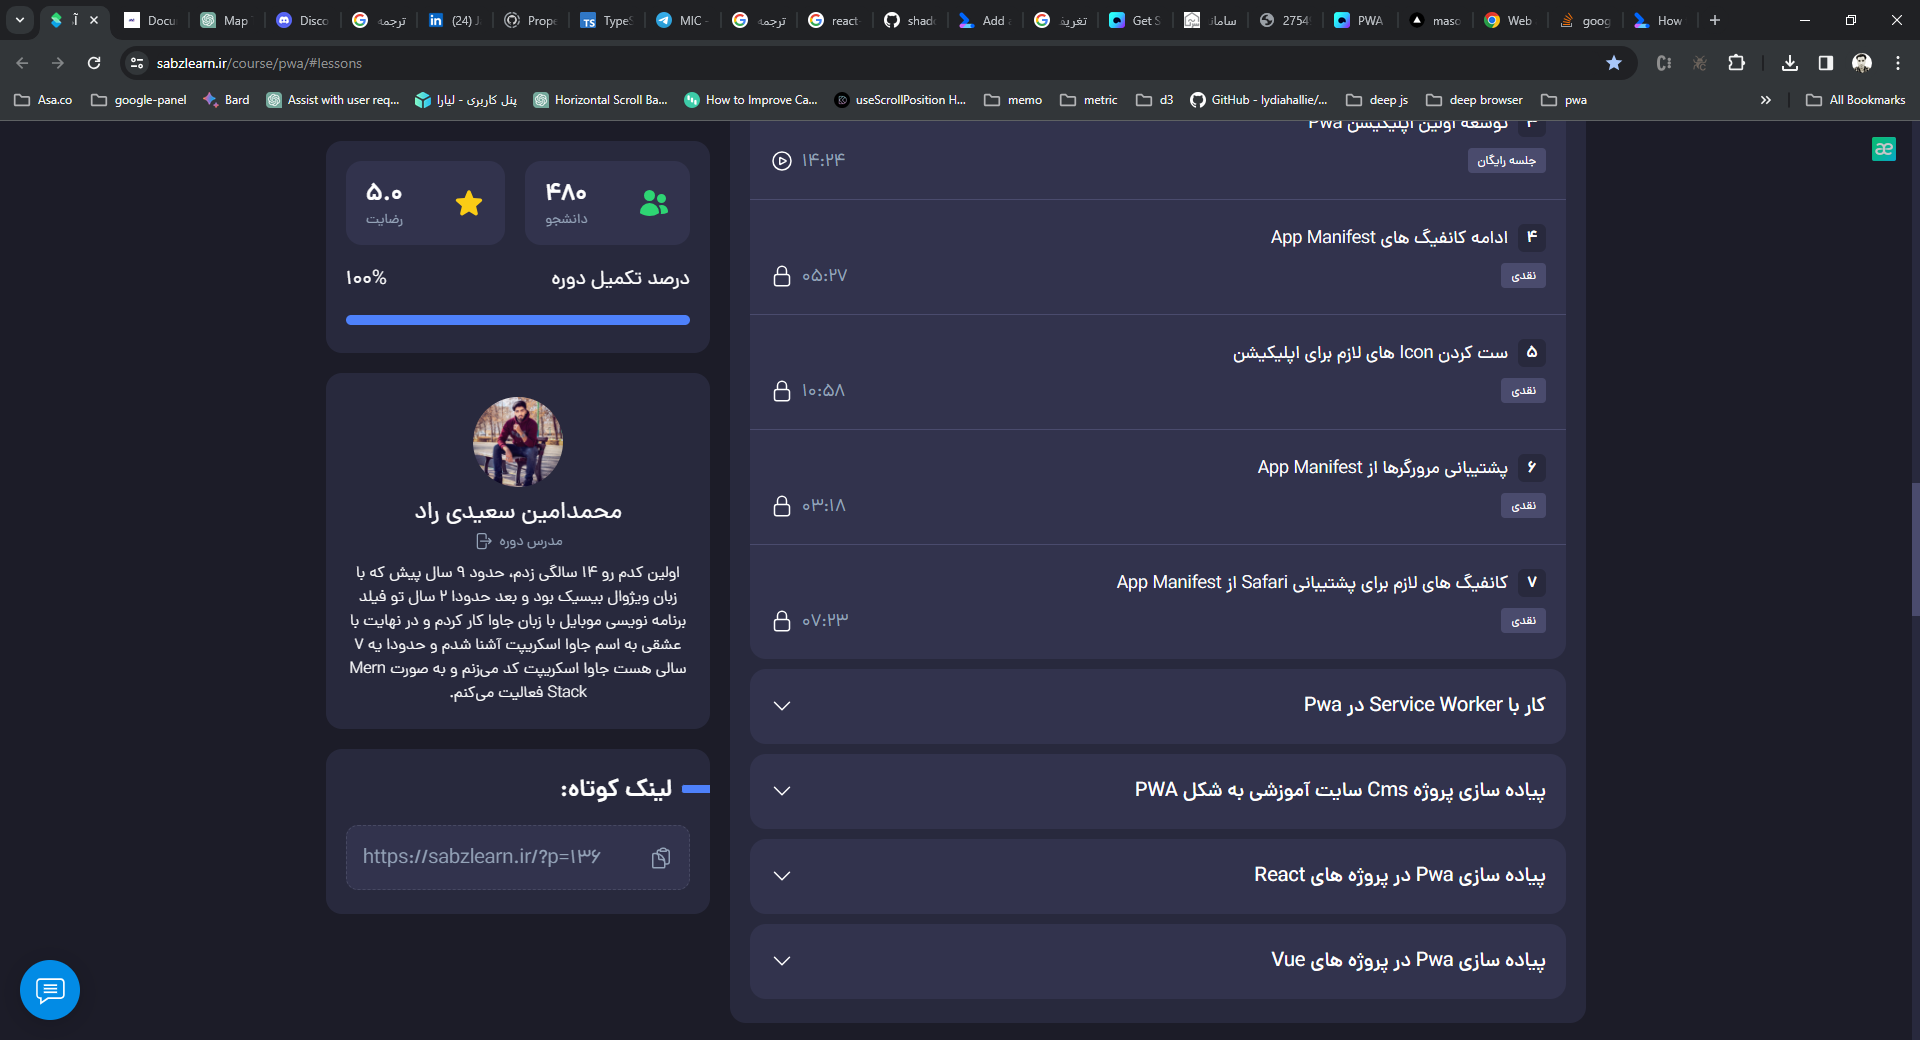
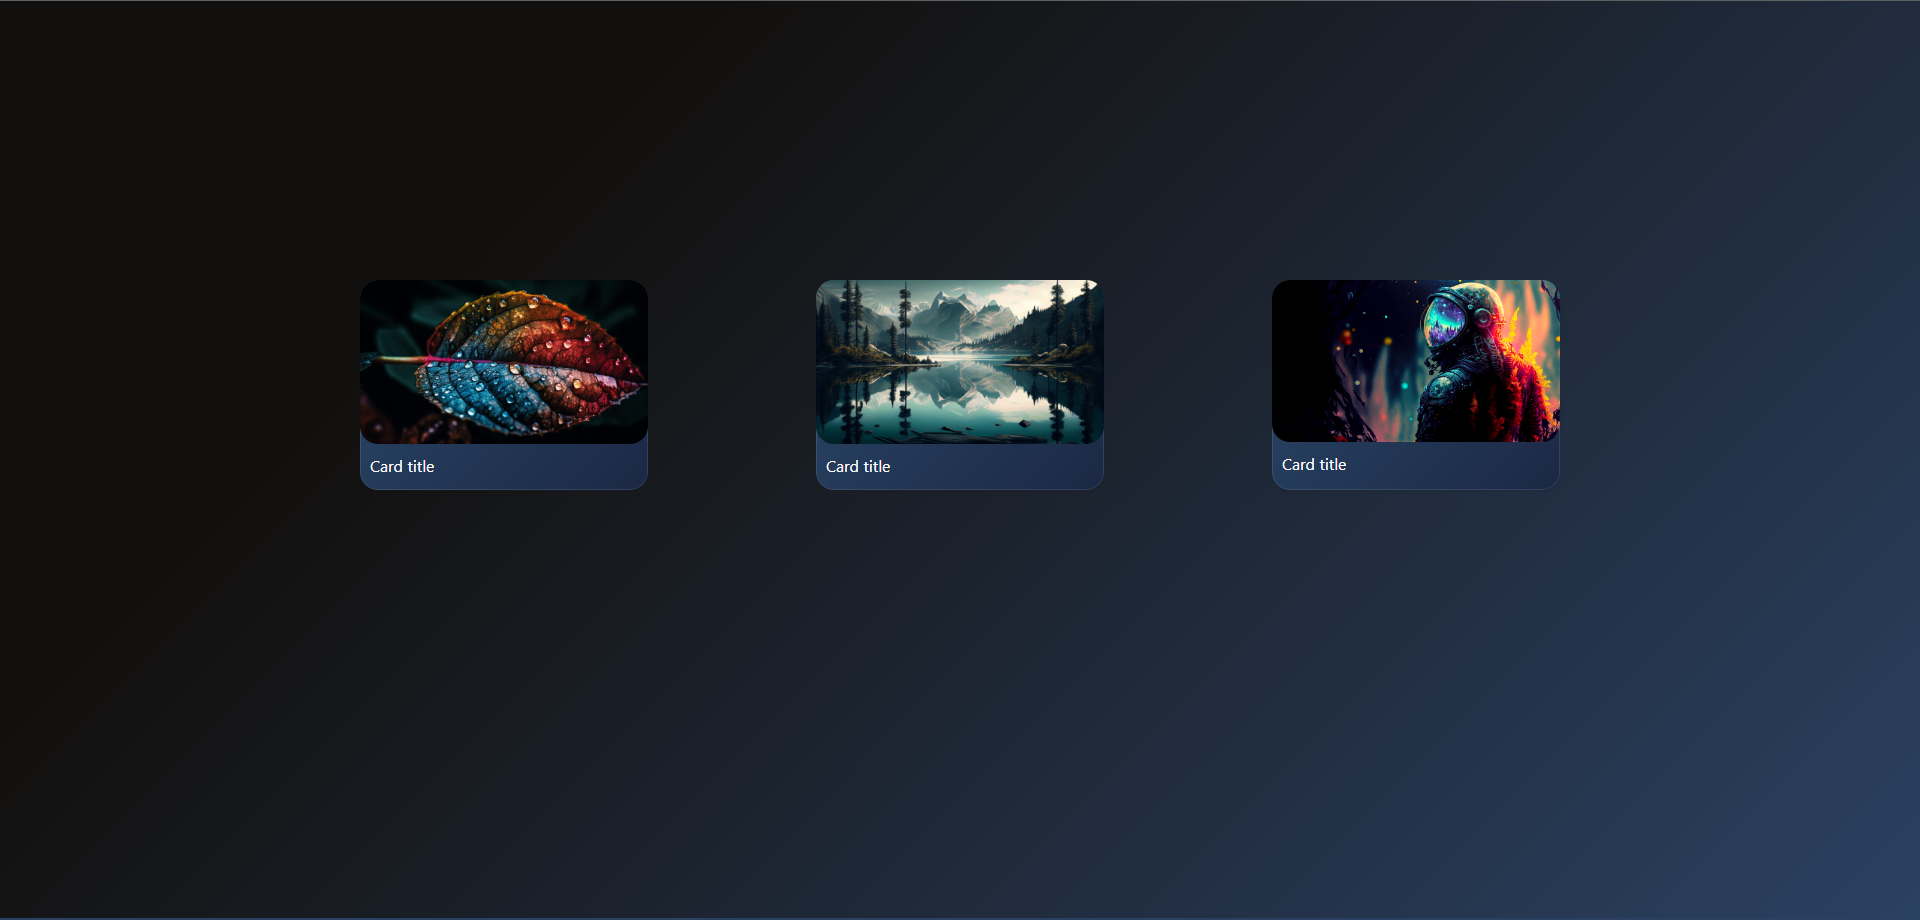
added useful strategy

diff --git a/sw.js b/sw.js
@@ -1,10 +1,10 @@
-const version = 17;
+const version = 73;
 const cacheName = {
   static: `static?version=${version}`,
   dynamic: `dynamic?version=${version}`,
 };
 
-const staticAsset = ["/"];
+const staticAsset = ["/","/assets/styles/main.css"];
 
 self.addEventListener("install", (event) => {
   console.log("installed service worker");
@@ -14,7 +14,7 @@ self.addEventListener("install", (event) => {
       cache
         .addAll(staticAsset)
         .then((e) => {
-          console.log("added to cache");
+          console.log("added static file to cache");
         })
         .catch((err) => console.log(err));
     })
@@ -22,6 +22,9 @@ self.addEventListener("install", (event) => {
 });
 
 self.addEventListener("activate", (event) => {
+  console.log("activate service worker");
+  event.waitUntil(clients.claim());
+
   const activateCacheName = Object.values(cacheName);
   event.waitUntil(
     caches.keys().then((cacheNames) => {
@@ -38,30 +41,78 @@ self.addEventListener("activate", (event) => {
 
 self.addEventListener("fetch", (event) => {
   console.log(event.request);
-  event.respondWith(
-    caches.match(event.request).then((response) => {
-      if (response) {
-        return response;
-      } else {
-        // Check if the request scheme is supported
-        if (event.request.url.startsWith("http")) {
-          return fetch(event.request).then((serverResponse) => {
-            // Open the dynamic cache
-            return caches.open(cacheName.dynamic).then((cache) => {
-              // Put the response in the cache
-              cache.put(event.request, serverResponse.clone());
-              return serverResponse;
-            });
-          }).catch(error => {
-            // Handle fetch errors
-            console.error('Fetch error:', error);
-            throw error;
-          });
-        } else {
-          // If request scheme is not supported, directly return the fetch response
-          return fetch(event.request);
-        }
-      }
-    })
-  );
+
+  // // network only
+  // event.respondWith(event.request);
+
+  // ****************************************************************************************************************************
+
+  // // caches only
+  const url = new URL(event.request.url);
+  const isPreCachedRequest = staticAsset.includes(url.pathname);
+  console.log("isPreCachedRequest",isPreCachedRequest);
+  if (isPreCachedRequest) {
+    // Grab the precached asset from the cache
+    event.respondWith(caches.open(cacheName.static).then((cache) => {
+      return cache.match(event.request);
+    }));
+  } else {
+    // Go to the network
+    // return  event.respondWith(null);
+    return event.respondWith(event.request);
+
+  }
+  // event.respondWith(caches.match(event.request));
+
+  // ****************************************************************************************************************************
+
+  // Cache first, falling back to network
+  // // and this advance
+  // event.respondWith(caches.open(cacheName.dynamic).then((cache) => {
+  //   // Go to the cache first
+  //   return cache.match(event.request).then((cachedResponse) => {
+  //     // Return a cached response if we have one
+  //     if (cachedResponse) {
+  //       return cachedResponse;
+  //     }
+
+  //     // Otherwise, hit the network
+  //     return fetch(event.request).then((fetchedResponse) => {
+  //       // Add the network response to the cache for later visits
+  //       cache.put(event.request, fetchedResponse.clone());
+
+  //       // Return the network response
+  //       return fetchedResponse;
+  //     });
+  //   });
+  // }));
+
+  // ****************************************************************************************************************************
+
+  //Network first, falling back to cache
+  // event.respondWith(caches.open(cacheName.dynamic).then(async (cache) => {
+  //   // Go to the network first
+  //   try {
+  //     const fetchedResponse = await fetch(event.request);
+  //     cache.put(event.request, fetchedResponse.clone());
+  //     return fetchedResponse;
+  //   } catch {
+  //     return await cache.match(event.request);
+  //   }
+  // }));
+
+  // ****************************************************************************************************************************
+
+  // Stale-while-revalidate
+  // event.respondWith(
+  //   caches.open(cacheName.dynamic).then(async (cache) => {
+  //     const cachedResponse = await cache.match(event.request);
+  //     const fetchedResponse = fetch(event.request).then((networkResponse) => {
+  //       cache.put(event.request, networkResponse.clone());
+
+  //       return networkResponse;
+  //     });
+  //     return cachedResponse || fetchedResponse;
+  //   })
+  // );
 });

diff --git a/index.html b/index.html
@@ -24,7 +24,6 @@
 
     <link rel="icon" type="image/png" sizes="32x32" href="/assets/icons/32x32.png" />
     <link rel="icon" type="image/png" sizes="16x16" href="/assets/icons/16x16.png" />
-    <link rel="manifest" href="/manifest.json" />
     <link rel="mask-icon" href="/icons/safari-pinned-tab.svg" color="#5bbad5" />
     <link rel="shortcut icon" href="/favicon.ico" />
     <link rel="stylesheet" href="https://fonts.googleapis.com/css?family=Roboto:300,400,500" />
@@ -41,38 +40,33 @@
     <meta property="og:site_name" content="PWA App" />
     <meta property="og:url" content="https://yourdomain.com" />
     <meta property="og:image" content="https://yourdomain.com/icons/apple-touch-icon.png" />
-
     <meta name="theme-color" content="green" />
+
+
     <link rel="manifest" href="manifest.json" />
     <link rel="stylesheet" href="/assets/styles/main.css" />
-    <link href="https://cdn.jsdelivr.net/npm/bootstrap@5.3.1/dist/css/bootstrap.min.css" rel="stylesheet" />
+    <script src="https://cdn.tailwindcss.com"></script>
   </head>
   <body>
     <div>
-      <div class="container mt-4">
-        <div class="row">
-          <div class="col">
-            <div class="card" style="width: 18rem">
-              <img src="./assets/img/1.jpg" class="card-img-top" alt="Course Cover" />
-              <div class="card-body">
-                <h5 class="card-title">Card title</h5>
-              </div>
+      <div class="container-custom mt-4">
+        <div class="flex justify-between w-full" data-theme="dark">
+          <div class="card" style="width: 18rem">
+            <img src="./assets/img/1.jpg" class="card-img-top" alt="Course Cover" />
+            <div class="card-body">
+              <h5 class="card-title">Card title</h5>
             </div>
           </div>
-          <div class="col">
-            <div class="card" style="width: 18rem">
-              <img src="./assets/img/2.jpg" class="card-img-top" alt="Course Cover" />
-              <div class="card-body">
-                <h5 class="card-title">Card title</h5>
-              </div>
+          <div class="card" style="width: 18rem">
+            <img src="./assets/img/2.jpg" class="card-img-top" alt="Course Cover" />
+            <div class="card-body">
+              <h5 class="card-title">Card title</h5>
             </div>
           </div>
-          <div class="col">
-            <div class="card" style="width: 18rem">
-              <img src="./assets/img/3.png" class="card-img-top" alt="Course Cover" />
-              <div class="card-body">
-                <h5 class="card-title">Card title</h5>
-              </div>
+          <div class="card" style="width: 18rem">
+            <img src="./assets/img/3.png" class="card-img-top" alt="Course Cover" />
+            <div class="card-body">
+              <h5 class="card-title">Card title</h5>
             </div>
           </div>
         </div>

diff --git a/assets/styles/main.css b/assets/styles/main.css
@@ -1,11 +1,51 @@
+:root {
+  --color-bg: hsl(0, 0%, 100%);
+  --color-bg-light: hsl(0, 0%, 100%);
+}
+
+/* edit the variables in dark mode */
+[data-theme="dark"] {
+  --color-bg: hsl(232, 11%, 15%);
+  --color-bg-light: hsl(233, 8%, 19%);
+}
+
 body {
-  background-color: blanchedalmond;
+  background-color: #2b4162;
+  background-image: linear-gradient(315deg, #2b4162 0%, #12100e 74%);
+  min-height: 98dvh;
+  background-repeat: no-repeat;
+  background-size: cover;
 }
 .title {
-    color: #030303;
-    padding: 10px;
-    display: flex;
-    justify-content: center;
-    align-items: center;
-  }
-  
+  color: #030303;
+  padding: 10px;
+  display: flex;
+  justify-content: center;
+  align-items: center;
+}
+
+.container-custom {
+  display: flex;
+  justify-content: center;
+  align-items: center;
+  min-height: 80dvh;
+  max-width: 1200px;
+  margin: 0 auto;
+}
+.card {
+  border-radius: 18px;
+  width: 250px;
+  height: 210px;
+  box-shadow: inset 0 0 0.5px 1px hsla(0, 0%, 100%, 0.1), /* 2. shadow ring 👇 */ 0 0 0 1px hsla(230, 13%, 9%, 0.075), /* 3. multiple soft shadows 👇 */ 0 0.3px 0.4px hsla(230, 13%, 9%, 0.02),
+    0 0.9px 1.5px hsla(230, 13%, 9%, 0.045), 0 3.5px 6px hsla(230, 13%, 9%, 0.09);
+  border: unset !important;
+  color: white !important;
+  background-color: #1b2845;
+  background-image: linear-gradient(315deg, #1b2845 0%, #274060 74%);
+}
+.card-body {
+  padding: 10px;
+}
+.card img {
+  border-radius: 18px;
+}
